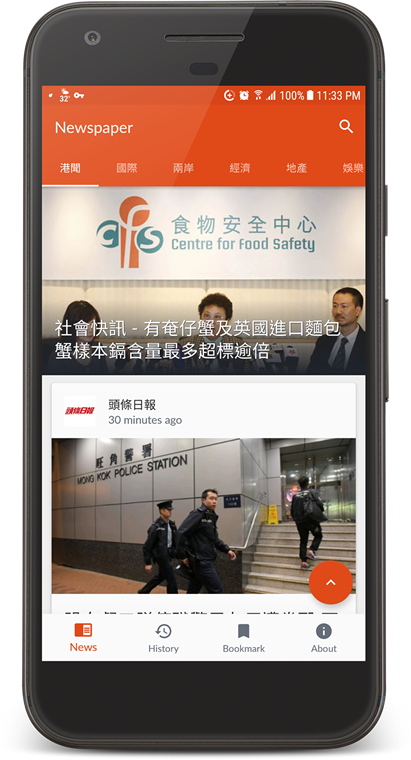
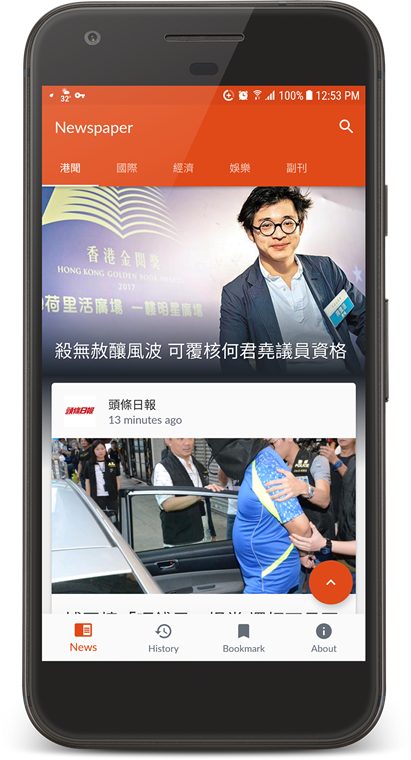
Update news list view UI and screenshot

diff --git a/mobile/src/main/java/com/github/ayltai/newspaper/app/widget/ItemListView.java b/mobile/src/main/java/com/github/ayltai/newspaper/app/widget/ItemListView.java
@@ -14,6 +14,7 @@ import android.support.annotation.Nullable;
 import android.support.annotation.RequiresApi;
 import android.support.annotation.StyleRes;
 import android.util.AttributeSet;
+import android.view.View;
 import android.widget.TextView;
 
 import com.github.ayltai.newspaper.R;
@@ -21,6 +22,7 @@ import com.github.ayltai.newspaper.app.data.model.Item;
 import com.github.ayltai.newspaper.app.view.ItemListPresenter;
 import com.github.ayltai.newspaper.util.ViewUtils;
 import com.github.ayltai.newspaper.widget.ListView;
+import com.jakewharton.rxbinding2.support.v7.widget.RxRecyclerView;
 
 import io.reactivex.disposables.Disposable;
 
@@ -103,6 +105,14 @@ public abstract class ItemListView extends ListView<Item> implements ItemListPre
             final Disposable disposable = (Disposable)this.adapter;
             if (!disposable.isDisposed()) disposable.dispose();
         }
+    }
+
+    @Override
+    protected void onAttachedToWindow() {
+        super.onAttachedToWindow();
+
+        final View view = this.findViewById(R.id.scrolling_background);
+        if (view != null) this.manageDisposable(RxRecyclerView.scrollEvents(this.recyclerView).subscribe(event -> view.setTranslationY(view.getTranslationY() - event.dy())));
     }
 
     private void init() {

diff --git a/mobile/src/main/java/com/github/ayltai/newspaper/widget/ListView.java b/mobile/src/main/java/com/github/ayltai/newspaper/widget/ListView.java
@@ -47,10 +47,10 @@ public abstract class ListView<M> extends ObservableView implements ListPresente
 
     //region Components
 
-    protected SwipeRefreshLayout        swipeRefreshLayout;
-    protected SmartRecyclerView         recyclerView;
-    protected View                      loadingView;
-    protected View                      emptyView;
+    protected SwipeRefreshLayout swipeRefreshLayout;
+    protected SmartRecyclerView  recyclerView;
+    protected View               loadingView;
+    protected View               emptyView;
 
     //endregion
 
